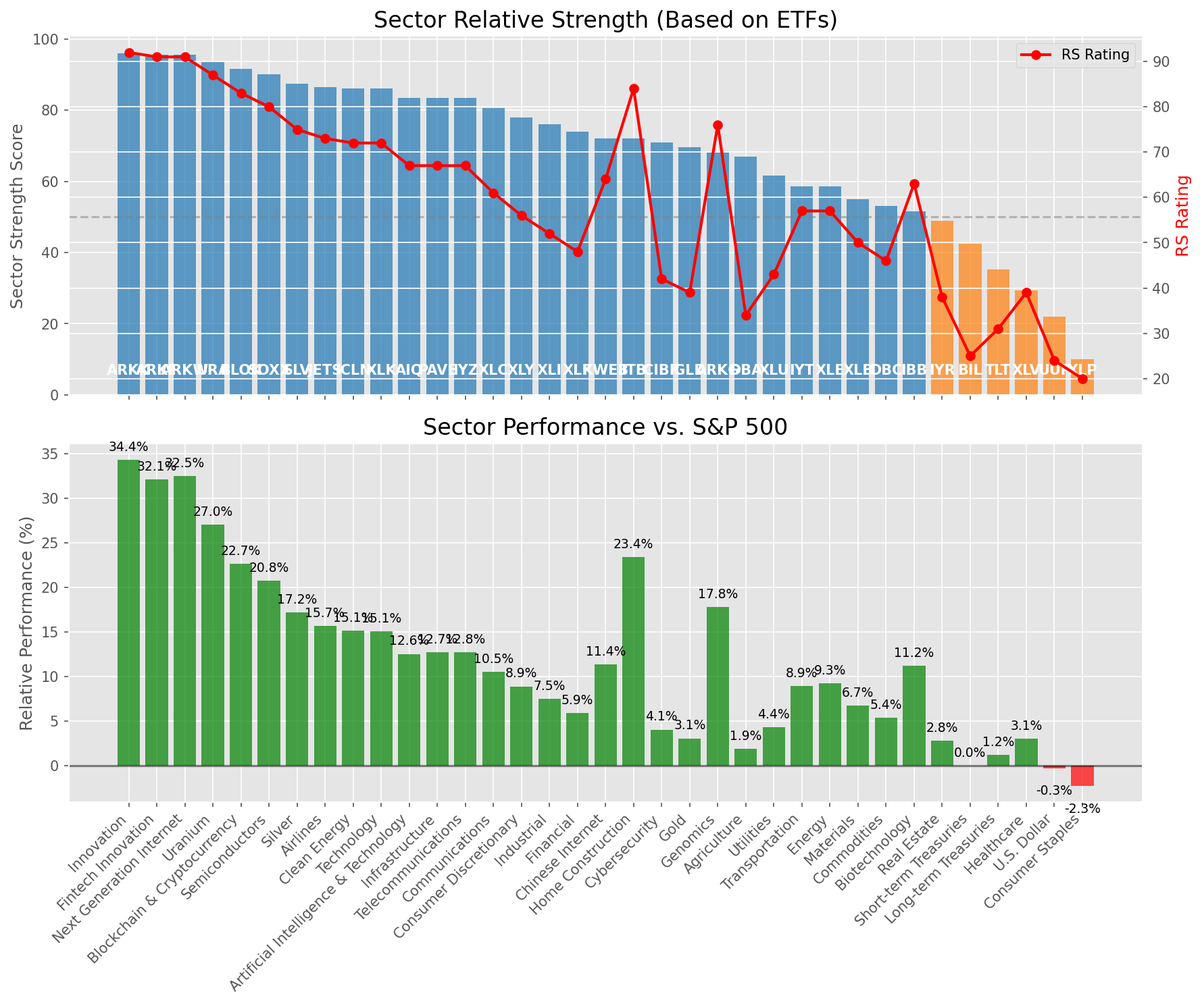
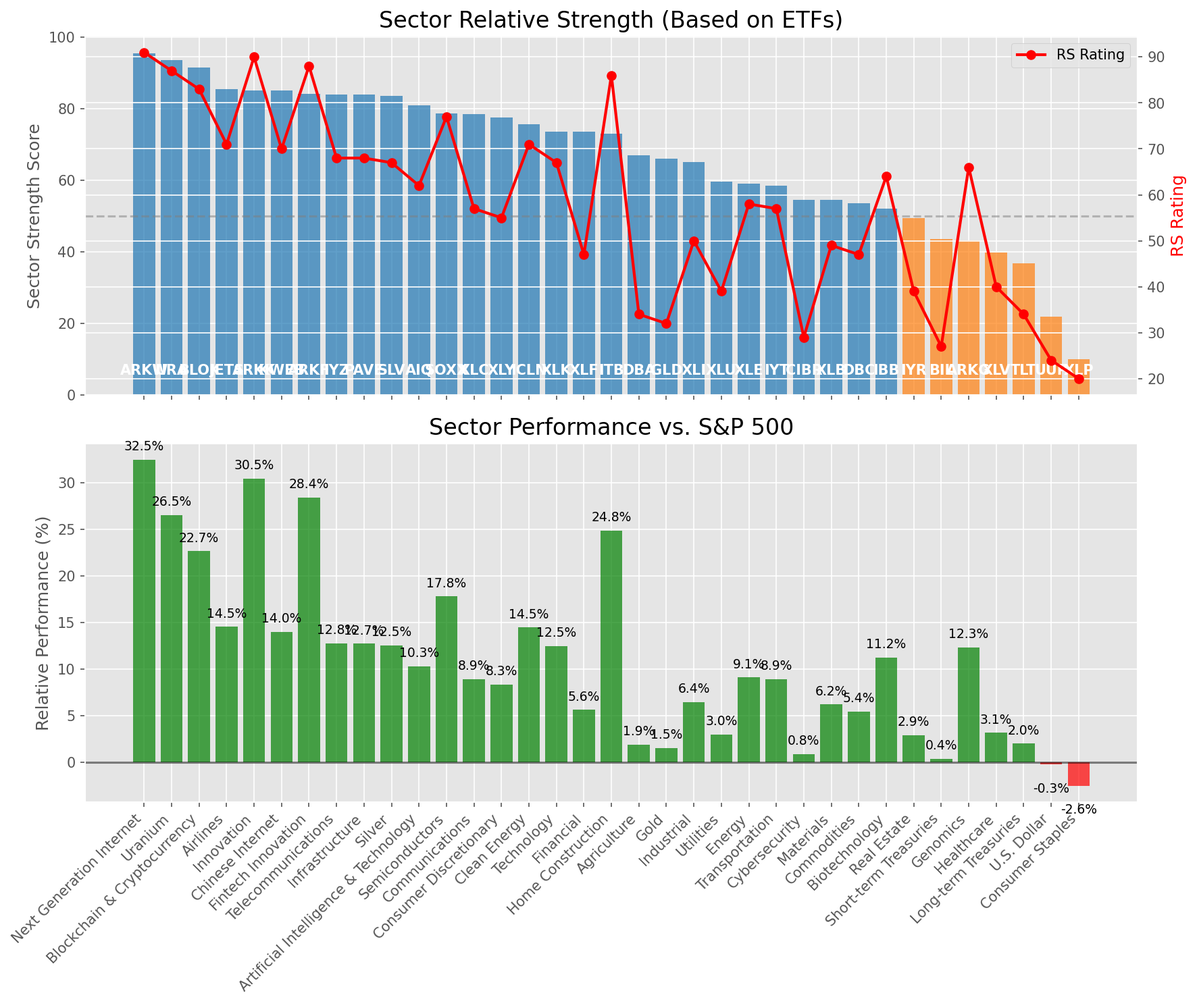
Add market report for 2025-08-29

diff --git a/oneil_relative_strength_report_2025-08-29.md b/oneil_relative_strength_report_2025-08-29.md
@@ -9,11 +9,11 @@
 | Metric | Value |
 |--------|-------|
 | **Market Valuation** | **Overvalued** |
-| **Current Ratio** | 10.55 |
-| **Historical Mean** | 9.94 |
+| **Current Ratio** | 10.47 |
+| **Historical Mean** | 9.96 |
 | **Standard Deviation** | 0.38 |
-| **Z-Score (StdDev from Mean)** | 1.49 |
-| **Total Market Cap** | $320.10 trillion |
+| **Z-Score (StdDev from Mean)** | 1.56 |
+| **Total Market Cap** | $317.80 trillion |
 | **GDP** | $30.35 trillion |
 
 ## **Market Insights**
@@ -49,41 +49,41 @@ Based on William O'Neil's Relative Strength Methodology
 
 | ETF | Strength | RS Rating | Performance | Above Key MAs | Trend | Sector |
 |-----|----------|-----------|-------------|--------------|-------|--------|
-| [ARKK](https://www.tradingview.com/chart/?symbol=ARKK) | 96.0 | 92.0 | 34.35% | 10d ✓, 50d ✓, 200d ✓ | ↗ | Innovation |
-| [ARKF](https://www.tradingview.com/chart/?symbol=ARKF) | 95.5 | 91.0 | 32.13% | 10d ✓, 50d ✓, 200d ✓ | ↗ | Fintech Innovation |
 | [ARKW](https://www.tradingview.com/chart/?symbol=ARKW) | 95.5 | 91.0 | 32.49% | 10d ✓, 50d ✓, 200d ✓ | ↗ | Next Generation Internet |
-| [URA](https://www.tradingview.com/chart/?symbol=URA) | 93.5 | 87.0 | 27.03% | 10d ✓, 50d ✓, 200d ✓ | ↗ | Uranium |
+| [URA](https://www.tradingview.com/chart/?symbol=URA) | 93.5 | 87.0 | 26.55% | 10d ✓, 50d ✓, 200d ✓ | ↗ | Uranium |
 | [BLOK](https://www.tradingview.com/chart/?symbol=BLOK) | 91.5 | 83.0 | 22.67% | 10d ✓, 50d ✓, 200d ✓ | ↗ | Blockchain & Cryptocurrency |
-| [SOXX](https://www.tradingview.com/chart/?symbol=SOXX) | 90.0 | 80.0 | 20.79% | 10d ✓, 50d ✓, 200d ✓ | ↗ | Semiconductors |
-| [SLV](https://www.tradingview.com/chart/?symbol=SLV) | 87.5 | 75.0 | 17.23% | 10d ✓, 50d ✓, 200d ✓ | ↗ | Silver |
-| [JETS](https://www.tradingview.com/chart/?symbol=JETS) | 86.5 | 73.0 | 15.70% | 10d ✓, 50d ✓, 200d ✓ | ↗ | Airlines |
-| [ICLN](https://www.tradingview.com/chart/?symbol=ICLN) | 86.0 | 72.0 | 15.15% | 10d ✓, 50d ✓, 200d ✓ | ↗ | Clean Energy |
-| [XLK](https://www.tradingview.com/chart/?symbol=XLK) | 86.0 | 72.0 | 15.07% | 10d ✓, 50d ✓, 200d ✓ | ↗ | Technology |
-| [AIQ](https://www.tradingview.com/chart/?symbol=AIQ) | 83.5 | 67.0 | 12.56% | 10d ✓, 50d ✓, 200d ✓ | ↗ | Artificial Intelligence & Technology |
-| [PAVE](https://www.tradingview.com/chart/?symbol=PAVE) | 83.5 | 67.0 | 12.73% | 10d ✓, 50d ✓, 200d ✓ | ↗ | Infrastructure |
-| [IYZ](https://www.tradingview.com/chart/?symbol=IYZ) | 83.5 | 67.0 | 12.76% | 10d ✓, 50d ✓, 200d ✓ | ↗ | Telecommunications |
-| [XLC](https://www.tradingview.com/chart/?symbol=XLC) | 80.5 | 61.0 | 10.53% | 10d ✓, 50d ✓, 200d ✓ | ↗ | Communications |
-| [XLY](https://www.tradingview.com/chart/?symbol=XLY) | 78.0 | 56.0 | 8.92% | 10d ✓, 50d ✓, 200d ✓ | ↗ | Consumer Discretionary |
-| [XLI](https://www.tradingview.com/chart/?symbol=XLI) | 76.0 | 52.0 | 7.49% | 10d ✓, 50d ✓, 200d ✓ | ↗ | Industrial |
-| [XLF](https://www.tradingview.com/chart/?symbol=XLF) | 74.0 | 48.0 | 5.90% | 10d ✓, 50d ✓, 200d ✓ | ↗ | Financial |
-| [KWEB](https://www.tradingview.com/chart/?symbol=KWEB) | 72.1 | 64.0 | 11.36% | 10d ✗, 50d ✓, 200d ✓ | ↗ | Chinese Internet |
-| [ITB](https://www.tradingview.com/chart/?symbol=ITB) | 72.0 | 84.0 | 23.40% | 10d ✓, 50d ✓, 200d ✓ | ↘ | Home Construction |
-| [CIBR](https://www.tradingview.com/chart/?symbol=CIBR) | 71.0 | 42.0 | 4.07% | 10d ✓, 50d ✓, 200d ✓ | ↗ | Cybersecurity |
-| [GLD](https://www.tradingview.com/chart/?symbol=GLD) | 69.5 | 39.0 | 3.08% | 10d ✓, 50d ✓, 200d ✓ | ↗ | Gold |
-| [ARKG](https://www.tradingview.com/chart/?symbol=ARKG) | 68.0 | 76.0 | 17.79% | 10d ✓, 50d ✓, 200d ✓ | ↘ | Genomics |
+| [JETS](https://www.tradingview.com/chart/?symbol=JETS) | 85.5 | 71.0 | 14.53% | 10d ✓, 50d ✓, 200d ✓ | ↗ | Airlines |
+| [ARKK](https://www.tradingview.com/chart/?symbol=ARKK) | 85.1 | 90.0 | 30.46% | 10d ✗, 50d ✓, 200d ✓ | ↗ | Innovation |
+| [KWEB](https://www.tradingview.com/chart/?symbol=KWEB) | 85.0 | 70.0 | 14.01% | 10d ✓, 50d ✓, 200d ✓ | ↗ | Chinese Internet |
+| [ARKF](https://www.tradingview.com/chart/?symbol=ARKF) | 84.1 | 88.0 | 28.42% | 10d ✗, 50d ✓, 200d ✓ | ↗ | Fintech Innovation |
+| [IYZ](https://www.tradingview.com/chart/?symbol=IYZ) | 84.0 | 68.0 | 12.76% | 10d ✓, 50d ✓, 200d ✓ | ↗ | Telecommunications |
+| [PAVE](https://www.tradingview.com/chart/?symbol=PAVE) | 84.0 | 68.0 | 12.73% | 10d ✓, 50d ✓, 200d ✓ | ↗ | Infrastructure |
+| [SLV](https://www.tradingview.com/chart/?symbol=SLV) | 83.5 | 67.0 | 12.54% | 10d ✓, 50d ✓, 200d ✓ | ↗ | Silver |
+| [AIQ](https://www.tradingview.com/chart/?symbol=AIQ) | 81.0 | 62.0 | 10.29% | 10d ✓, 50d ✓, 200d ✓ | ↗ | Artificial Intelligence & Technology |
+| [SOXX](https://www.tradingview.com/chart/?symbol=SOXX) | 78.6 | 77.0 | 17.79% | 10d ✗, 50d ✓, 200d ✓ | ↗ | Semiconductors |
+| [XLC](https://www.tradingview.com/chart/?symbol=XLC) | 78.5 | 57.0 | 8.90% | 10d ✓, 50d ✓, 200d ✓ | ↗ | Communications |
+| [XLY](https://www.tradingview.com/chart/?symbol=XLY) | 77.5 | 55.0 | 8.32% | 10d ✓, 50d ✓, 200d ✓ | ↗ | Consumer Discretionary |
+| [ICLN](https://www.tradingview.com/chart/?symbol=ICLN) | 75.6 | 71.0 | 14.46% | 10d ✗, 50d ✓, 200d ✓ | ↗ | Clean Energy |
+| [XLK](https://www.tradingview.com/chart/?symbol=XLK) | 73.6 | 67.0 | 12.46% | 10d ✗, 50d ✓, 200d ✓ | ↗ | Technology |
+| [XLF](https://www.tradingview.com/chart/?symbol=XLF) | 73.5 | 47.0 | 5.62% | 10d ✓, 50d ✓, 200d ✓ | ↗ | Financial |
+| [ITB](https://www.tradingview.com/chart/?symbol=ITB) | 73.0 | 86.0 | 24.85% | 10d ✓, 50d ✓, 200d ✓ | ↘ | Home Construction |
 | [DBA](https://www.tradingview.com/chart/?symbol=DBA) | 67.0 | 34.0 | 1.89% | 10d ✓, 50d ✓, 200d ✓ | ↗ | Agriculture |
-| [XLU](https://www.tradingview.com/chart/?symbol=XLU) | 61.6 | 43.0 | 4.37% | 10d ✗, 50d ✓, 200d ✓ | ↗ | Utilities |
+| [GLD](https://www.tradingview.com/chart/?symbol=GLD) | 66.0 | 32.0 | 1.52% | 10d ✓, 50d ✓, 200d ✓ | ↗ | Gold |
+| [XLI](https://www.tradingview.com/chart/?symbol=XLI) | 65.1 | 50.0 | 6.44% | 10d ✗, 50d ✓, 200d ✓ | ↗ | Industrial |
+| [XLU](https://www.tradingview.com/chart/?symbol=XLU) | 59.6 | 39.0 | 2.97% | 10d ✗, 50d ✓, 200d ✓ | ↗ | Utilities |
+| [XLE](https://www.tradingview.com/chart/?symbol=XLE) | 59.0 | 58.0 | 9.09% | 10d ✓, 50d ✓, 200d ✓ | ↘ | Energy |
 | [IYT](https://www.tradingview.com/chart/?symbol=IYT) | 58.5 | 57.0 | 8.93% | 10d ✓, 50d ✓, 200d ✓ | ↘ | Transportation |
-| [XLE](https://www.tradingview.com/chart/?symbol=XLE) | 58.5 | 57.0 | 9.29% | 10d ✓, 50d ✓, 200d ✓ | ↘ | Energy |
-| [XLB](https://www.tradingview.com/chart/?symbol=XLB) | 55.0 | 50.0 | 6.74% | 10d ✓, 50d ✓, 200d ✓ | ↘ | Materials |
-| [DBC](https://www.tradingview.com/chart/?symbol=DBC) | 53.0 | 46.0 | 5.42% | 10d ✓, 50d ✓, 200d ✓ | ↘ | Commodities |
-| [IBB](https://www.tradingview.com/chart/?symbol=IBB) | 51.6 | 63.0 | 11.24% | 10d ✗, 50d ✓, 200d ✓ | ↘ | Biotechnology |
-| [IYR](https://www.tradingview.com/chart/?symbol=IYR) | 49.0 | 38.0 | 2.82% | 10d ✓, 50d ✓, 200d ✓ | ↘ | Real Estate |
-| [BIL](https://www.tradingview.com/chart/?symbol=BIL) | 42.5 | 25.0 | 0.02% | 10d ✓, 50d ✓, 200d ✓ | ↘ | Short-term Treasuries |
-| [TLT](https://www.tradingview.com/chart/?symbol=TLT) | 35.3 | 31.0 | 1.24% | 10d ✓, 50d ✓, 200d ✗ | ↘ | Long-term Treasuries |
-| [XLV](https://www.tradingview.com/chart/?symbol=XLV) | 29.4 | 39.0 | 3.07% | 10d ✗, 50d ✓, 200d ✗ | ↘ | Healthcare |
+| [CIBR](https://www.tradingview.com/chart/?symbol=CIBR) | 54.6 | 29.0 | 0.84% | 10d ✓, 50d ✗, 200d ✓ | ↗ | Cybersecurity |
+| [XLB](https://www.tradingview.com/chart/?symbol=XLB) | 54.5 | 49.0 | 6.20% | 10d ✓, 50d ✓, 200d ✓ | ↘ | Materials |
+| [DBC](https://www.tradingview.com/chart/?symbol=DBC) | 53.5 | 47.0 | 5.42% | 10d ✓, 50d ✓, 200d ✓ | ↘ | Commodities |
+| [IBB](https://www.tradingview.com/chart/?symbol=IBB) | 52.1 | 64.0 | 11.24% | 10d ✗, 50d ✓, 200d ✓ | ↘ | Biotechnology |
+| [IYR](https://www.tradingview.com/chart/?symbol=IYR) | 49.5 | 39.0 | 2.88% | 10d ✓, 50d ✓, 200d ✓ | ↘ | Real Estate |
+| [BIL](https://www.tradingview.com/chart/?symbol=BIL) | 43.5 | 27.0 | 0.36% | 10d ✓, 50d ✓, 200d ✓ | ↘ | Short-term Treasuries |
+| [ARKG](https://www.tradingview.com/chart/?symbol=ARKG) | 43.2 | 66.0 | 12.34% | 10d ✗, 50d ✗, 200d ✓ | ↘ | Genomics |
+| [XLV](https://www.tradingview.com/chart/?symbol=XLV) | 39.8 | 40.0 | 3.15% | 10d ✓, 50d ✓, 200d ✗ | ↘ | Healthcare |
+| [TLT](https://www.tradingview.com/chart/?symbol=TLT) | 36.8 | 34.0 | 1.98% | 10d ✓, 50d ✓, 200d ✗ | ↘ | Long-term Treasuries |
 | [UUP](https://www.tradingview.com/chart/?symbol=UUP) | 21.9 | 24.0 | -0.25% | 10d ✗, 50d ✓, 200d ✗ | ↘ | U.S. Dollar |
-| [XLP](https://www.tradingview.com/chart/?symbol=XLP) | 10.0 | 20.0 | -2.25% | 10d ✗, 50d ✗, 200d ✗ | ↘ | Consumer Staples |
+| [XLP](https://www.tradingview.com/chart/?symbol=XLP) | 10.0 | 20.0 | -2.56% | 10d ✗, 50d ✗, 200d ✗ | ↘ | Consumer Staples |
 
 ### **Sector ETF Performance Interpretation**
 
@@ -98,181 +98,193 @@ This table shows the relative strength metrics for different market sectors base
 
 ### **Current Sector Leadership**
 
-The current market leadership is coming from the following sectors: **Innovation, Fintech Innovation, Next Generation Internet**.
+The current market leadership is coming from the following sectors: **Next Generation Internet, Uranium, Blockchain & Cryptocurrency**.
 
-The **Innovation** sector (represented by **ARKK**) is showing particularly strong relative strength with an RS rating of 92.0 and performance of 34.35% vs. the S&P 500. This sector is trading above its 10-day, 50-day, 200-day moving average(s). Investors should consider focusing on high RS stocks within these leading sectors for potential outperformance.
+The **Next Generation Internet** sector (represented by **ARKW**) is showing particularly strong relative strength with an RS rating of 91.0 and performance of 32.49% vs. the S&P 500. This sector is trading above its 10-day, 50-day, 200-day moving average(s). Investors should consider focusing on high RS stocks within these leading sectors for potential outperformance.
 
 ---
 
 ## **Buy Recommendations**
 
-The following 65 stocks show exceptional relative strength:
+The following 54 stocks show exceptional relative strength:
 
 | RS Rating | Buy Score | Current Price | Chart | Name | Ticker |
 |-----------|-----------|---------------|-------|------|--------|
-| 100 | 100 | $68.51 | [Chart](https://www.tradingview.com/chart/?symbol=KTOS) | Kratos Defense & Security Solutions, Inc. | KTOS |
-| 100 | 100 | $131.82 | [Chart](https://www.tradingview.com/chart/?symbol=CRDO) | Credo Technology Group Holding Ltd Ordinary Shares | CRDO |
-| 100 | 100 | $73.50 | [Chart](https://www.tradingview.com/chart/?symbol=MP) | MP Materials Corp. | MP |
-| 100 | 100 | $212.33 | [Chart](https://www.tradingview.com/chart/?symbol=CLS) | Celestica, Inc. | CLS |
-| 100 | 100 | $27.46 | [Chart](https://www.tradingview.com/chart/?symbol=LQDA) | Liquidia Corporation Common Stock | LQDA |
-| 99 | 100 | $209.38 | [Chart](https://www.tradingview.com/chart/?symbol=LEU) | Centrus Energy Corp. | LEU |
-| 99 | 100 | $186.11 | [Chart](https://www.tradingview.com/chart/?symbol=FUTU) | Futu Holdings Limited American Depositary Shares | FUTU |
-| 99 | 100 | $47.91 | [Chart](https://www.tradingview.com/chart/?symbol=RKLB) | Rocket Lab Corporation Common Stock | RKLB |
+| 100 | 100 | $185.88 | [Chart](https://www.tradingview.com/chart/?symbol=FUTU) | Futu Holdings Limited American Depositary Shares | FUTU |
+| 100 | 100 | $71.72 | [Chart](https://www.tradingview.com/chart/?symbol=MP) | MP Materials Corp. | MP |
+| 100 | 100 | $124.60 | [Chart](https://www.tradingview.com/chart/?symbol=CRDO) | Credo Technology Group Holding Ltd Ordinary Shares | CRDO |
+| 99 | 100 | $201.88 | [Chart](https://www.tradingview.com/chart/?symbol=CLS) | Celestica, Inc. | CLS |
+| 99 | 100 | $36.13 | [Chart](https://www.tradingview.com/chart/?symbol=CPS) | Cooper-Standard Automotive Inc. | CPS |
+| 99 | 100 | $46.06 | [Chart](https://www.tradingview.com/chart/?symbol=RKLB) | Rocket Lab Corporation Common Stock | RKLB |
 | 98 | 100 | $67.01 | [Chart](https://www.tradingview.com/chart/?symbol=BBW) | Build-A-Bear Workshop, Inc. | BBW |
 | 98 | 100 | $59.93 | [Chart](https://www.tradingview.com/chart/?symbol=TPC) | Tutor Perini Corporation | TPC |
-| 98 | 100 | $46.90 | [Chart](https://www.tradingview.com/chart/?symbol=TTMI) | TTM Technologies Inc | TTMI |
-| 98 | 100 | $388.22 | [Chart](https://www.tradingview.com/chart/?symbol=TLN) | Talen Energy Corporation Common Stock | TLN |
-| 98 | 100 | $36.13 | [Chart](https://www.tradingview.com/chart/?symbol=CPS) | Cooper-Standard Automotive Inc. | CPS |
-| 97 | 100 | $126.88 | [Chart](https://www.tradingview.com/chart/?symbol=RBLX) | Roblox Corporation | RBLX |
+| 97 | 100 | $45.40 | [Chart](https://www.tradingview.com/chart/?symbol=TTMI) | TTM Technologies Inc | TTMI |
+| 97 | 100 | $377.66 | [Chart](https://www.tradingview.com/chart/?symbol=TLN) | Talen Energy Corporation Common Stock | TLN |
 | 96 | 100 | $91.31 | [Chart](https://www.tradingview.com/chart/?symbol=LIF) | Life360, Inc. Common Stock | LIF |
 | 96 | 100 | $53.78 | [Chart](https://www.tradingview.com/chart/?symbol=REVG) | REV Group, Inc. | REVG |
-| 95 | 100 | $68.50 | [Chart](https://www.tradingview.com/chart/?symbol=MRCY) | Mercury Systems Inc. | MRCY |
-| 95 | 100 | $63.77 | [Chart](https://www.tradingview.com/chart/?symbol=VIK) | Viking Holdings Ltd | VIK |
 | 95 | 100 | $119.37 | [Chart](https://www.tradingview.com/chart/?symbol=SANM) | Sanmina  Corp | SANM |
-| 95 | 100 | $365.84 | [Chart](https://www.tradingview.com/chart/?symbol=RCL) | Royal Caribbean Group | RCL |
-| 93 | 100 | $105.88 | [Chart](https://www.tradingview.com/chart/?symbol=VRNA) | Verona Pharma plc | VRNA |
-| 93 | 100 | $99.91 | [Chart](https://www.tradingview.com/chart/?symbol=TPB) | Turning Point Brands, Inc. | TPB |
+| 95 | 100 | $68.50 | [Chart](https://www.tradingview.com/chart/?symbol=MRCY) | Mercury Systems Inc. | MRCY |
+| 94 | 100 | $62.92 | [Chart](https://www.tradingview.com/chart/?symbol=VIK) | Viking Holdings Ltd | VIK |
+| 94 | 100 | $99.91 | [Chart](https://www.tradingview.com/chart/?symbol=TPB) | Turning Point Brands, Inc. | TPB |
+| 93 | 100 | $122.68 | [Chart](https://www.tradingview.com/chart/?symbol=RBLX) | Roblox Corporation | RBLX |
+| 93 | 100 | $358.21 | [Chart](https://www.tradingview.com/chart/?symbol=RCL) | Royal Caribbean Group | RCL |
 | 92 | 100 | $97.40 | [Chart](https://www.tradingview.com/chart/?symbol=LLYVK) | Liberty Media Corporation Series C Liberty Live Common Stock | LLYVK |
-| 92 | 100 | $633.69 | [Chart](https://www.tradingview.com/chart/?symbol=GEV) | GE Vernova Inc. | GEV |
 | 92 | 100 | $50.48 | [Chart](https://www.tradingview.com/chart/?symbol=LTM) | LATAM Airlines Group S.A. American Depositary Shares (each representing two thousand (2,000) shares of Common Stock) | LTM |
-| 91 | 100 | $54.08 | [Chart](https://www.tradingview.com/chart/?symbol=ARKF) | ARK Fintech Innovation ETF | ARKF |
+| 91 | 100 | $23.39 | [Chart](https://www.tradingview.com/chart/?symbol=BZ) | KANZHUN LIMITED American Depository Shares | BZ |
+| 91 | 100 | $75.49 | [Chart](https://www.tradingview.com/chart/?symbol=WNS) | WNS (Holdings) Limited | WNS |
 | 91 | 100 | $159.42 | [Chart](https://www.tradingview.com/chart/?symbol=ARKW) | ARK Next Generation Internet ETF | ARKW |
-| 90 | 100 | $102.61 | [Chart](https://www.tradingview.com/chart/?symbol=TPR) | Tapestry, Inc. Common Stock | TPR |
-| 90 | 100 | $56.35 | [Chart](https://www.tradingview.com/chart/?symbol=SIL) | Global X Silver Miners ETF (NEW) | SIL |
-| 90 | 100 | $31.33 | [Chart](https://www.tradingview.com/chart/?symbol=SRAD) | Sportradar Group AG Class A Ordinary Shares | SRAD |
-| 90 | 100 | $75.49 | [Chart](https://www.tradingview.com/chart/?symbol=WNS) | WNS (Holdings) Limited | WNS |
-| 90 | 100 | $54.76 | [Chart](https://www.tradingview.com/chart/?symbol=FLEX) | Flex Ltd. Ordinary Shares | FLEX |
+| 90 | 100 | $102.54 | [Chart](https://www.tradingview.com/chart/?symbol=TPR) | Tapestry, Inc. Common Stock | TPR |
+| 90 | 100 | $17.85 | [Chart](https://www.tradingview.com/chart/?symbol=ARLO) | Arlo Technologies, Inc. | ARLO |
 | 90 | 100 | $61.06 | [Chart](https://www.tradingview.com/chart/?symbol=CALX) | CALIX, INC. | CALX |
-| 89 | 100 | $213.42 | [Chart](https://www.tradingview.com/chart/?symbol=NET) | Cloudflare, Inc. Class A common stock, par value $0.001 per share | NET |
+| 89 | 100 | $23.97 | [Chart](https://www.tradingview.com/chart/?symbol=MAG) | MAG Silver Corp. | MAG |
 | 88 | 100 | $273.51 | [Chart](https://www.tradingview.com/chart/?symbol=IDCC) | InterDigital, Inc. | IDCC |
-| 90 | 99 | $23.10 | [Chart](https://www.tradingview.com/chart/?symbol=BZ) | KANZHUN LIMITED American Depository Shares | BZ |
-| 89 | 99 | $17.85 | [Chart](https://www.tradingview.com/chart/?symbol=ARLO) | Arlo Technologies, Inc. | ARLO |
+| 86 | 100 | $105.74 | [Chart](https://www.tradingview.com/chart/?symbol=VRNA) | Verona Pharma plc | VRNA |
 | 89 | 99 | $115.00 | [Chart](https://www.tradingview.com/chart/?symbol=AZZ) | AZZ Inc. | AZZ |
-| 88 | 99 | $23.97 | [Chart](https://www.tradingview.com/chart/?symbol=MAG) | MAG Silver Corp. | MAG |
-| 88 | 99 | $96.82 | [Chart](https://www.tradingview.com/chart/?symbol=C) | Citigroup Inc. | C |
-| 88 | 98 | $29.29 | [Chart](https://www.tradingview.com/chart/?symbol=ACMR) | ACM Research, Inc. Class A Common Stock | ACMR |
+| 88 | 99 | $39.52 | [Chart](https://www.tradingview.com/chart/?symbol=ATAT) | Atour Lifestyle Holdings Limited American Depositary Shares | ATAT |
+| 86 | 99 | $52.25 | [Chart](https://www.tradingview.com/chart/?symbol=RING) | iShares MSCI Global Gold Miners ETF | RING |
 | 87 | 98 | $28.91 | [Chart](https://www.tradingview.com/chart/?symbol=KAR) | OPENLANE, Inc | KAR |
-| 86 | 98 | $55.20 | [Chart](https://www.tradingview.com/chart/?symbol=AU) | AngloGold Ashanti plc | AU |
-| 85 | 98 | $52.25 | [Chart](https://www.tradingview.com/chart/?symbol=RING) | iShares MSCI Global Gold Miners ETF | RING |
+| 87 | 98 | $96.15 | [Chart](https://www.tradingview.com/chart/?symbol=C) | Citigroup Inc. | C |
 | 87 | 97 | $197.57 | [Chart](https://www.tradingview.com/chart/?symbol=AWI) | Armstrong World Industries, Inc. | AWI |
-| 86 | 97 | $111.94 | [Chart](https://www.tradingview.com/chart/?symbol=APH) | Amphenol Corporation | APH |
+| 87 | 97 | $53.61 | [Chart](https://www.tradingview.com/chart/?symbol=FHI) | Federated Hermes, Inc. | FHI |
+| 84 | 97 | $27.55 | [Chart](https://www.tradingview.com/chart/?symbol=LAUR) | Laureate Education, Inc. Common Stock | LAUR |
 | 86 | 96 | $124.05 | [Chart](https://www.tradingview.com/chart/?symbol=PPLT) | abrdn Physical Platinum Shares ETF | PPLT |
-| 86 | 96 | $483.75 | [Chart](https://www.tradingview.com/chart/?symbol=APP) | Applovin Corporation Class A Common Stock | APP |
-| 86 | 96 | $53.61 | [Chart](https://www.tradingview.com/chart/?symbol=FHI) | Federated Hermes, Inc. | FHI |
-| 83 | 96 | $27.55 | [Chart](https://www.tradingview.com/chart/?symbol=LAUR) | Laureate Education, Inc. Common Stock | LAUR |
-| 84 | 95 | $31.38 | [Chart](https://www.tradingview.com/chart/?symbol=IIIV) | i3 Verticals, Inc. Class A Common Stock | IIIV |
-| 82 | 95 | $42.72 | [Chart](https://www.tradingview.com/chart/?symbol=AHR) | American Healthcare REIT, Inc. | AHR |
+| 85 | 96 | $31.38 | [Chart](https://www.tradingview.com/chart/?symbol=IIIV) | i3 Verticals, Inc. Class A Common Stock | IIIV |
+| 83 | 96 | $42.72 | [Chart](https://www.tradingview.com/chart/?symbol=AHR) | American Healthcare REIT, Inc. | AHR |
+| 82 | 95 | $206.81 | [Chart](https://www.tradingview.com/chart/?symbol=NET) | Cloudflare, Inc. Class A common stock, par value $0.001 per share | NET |
+| 84 | 94 | $56.72 | [Chart](https://www.tradingview.com/chart/?symbol=SIL) | Global X Silver Miners ETF (NEW) | SIL |
+| 84 | 94 | $16.52 | [Chart](https://www.tradingview.com/chart/?symbol=EZPW) | Ezcorp Inc | EZPW |
+| 84 | 94 | $28.13 | [Chart](https://www.tradingview.com/chart/?symbol=ACMR) | ACM Research, Inc. Class A Common Stock | ACMR |
 | 83 | 94 | $26.73 | [Chart](https://www.tradingview.com/chart/?symbol=TFPM) | Triple Flag Precious Metals Corp. | TFPM |
-| 83 | 93 | $16.52 | [Chart](https://www.tradingview.com/chart/?symbol=EZPW) | Ezcorp Inc | EZPW |
+| 81 | 94 | $37.83 | [Chart](https://www.tradingview.com/chart/?symbol=ATRO) | Astronics Corp | ATRO |
+| 80 | 94 | $101.05 | [Chart](https://www.tradingview.com/chart/?symbol=SNEX) | StoneX Group Inc. Common Stock | SNEX |
 | 82 | 93 | $256.09 | [Chart](https://www.tradingview.com/chart/?symbol=BAP) | Credicorp LTD | BAP |
-| 82 | 93 | $39.00 | [Chart](https://www.tradingview.com/chart/?symbol=ATAT) | Atour Lifestyle Holdings Limited American Depositary Shares | ATAT |
 | 80 | 93 | $171.47 | [Chart](https://www.tradingview.com/chart/?symbol=IRTC) | iRhythm Technologies, Inc | IRTC |
-| 80 | 93 | $37.83 | [Chart](https://www.tradingview.com/chart/?symbol=ATRO) | Astronics Corp | ATRO |
-| 80 | 93 | $247.33 | [Chart](https://www.tradingview.com/chart/?symbol=DASH) | DoorDash, Inc. Class A Common Stock | DASH |
+| 82 | 92 | $84.33 | [Chart](https://www.tradingview.com/chart/?symbol=SAH) | Sonic Automotive, Inc. | SAH |
 | 81 | 92 | $114.80 | [Chart](https://www.tradingview.com/chart/?symbol=SXT) | Sensient Technology Corporation | SXT |
-| 81 | 91 | $222.34 | [Chart](https://www.tradingview.com/chart/?symbol=AN) | AutoNation, Inc. | AN |
-| 81 | 91 | $84.33 | [Chart](https://www.tradingview.com/chart/?symbol=SAH) | Sonic Automotive, Inc. | SAH |
-| 81 | 91 | $50.18 | [Chart](https://www.tradingview.com/chart/?symbol=FAST) | Fastenal Co | FAST |
 | 81 | 91 | $191.53 | [Chart](https://www.tradingview.com/chart/?symbol=MYRG) | MYR Group, Inc. | MYRG |
 | 81 | 91 | $20.35 | [Chart](https://www.tradingview.com/chart/?symbol=DAN) | Dana Incorporated | DAN |
+| 81 | 91 | $222.34 | [Chart](https://www.tradingview.com/chart/?symbol=AN) | AutoNation, Inc. | AN |
 
 ---
 
 
 ## **Sell Recommendations**
 
-The following 88 stocks show deteriorating relative strength:
+The following 111 stocks show deteriorating relative strength:
 
 | RS Rating | Sell Score | Current Price | Chart | Name | Ticker |
 |-----------|------------|---------------|-------|------|--------|
-| 1 | 100 | $23.12 | [Chart](https://www.tradingview.com/chart/?symbol=TECS) | Direxion Daily Technology Bear 3x Shares | TECS |
-| 1 | 100 | $17.47 | [Chart](https://www.tradingview.com/chart/?symbol=DUST) | Direxion Daily Gold Miners Index Bear 2X Shares | DUST |
+| 1 | 100 | $12.20 | [Chart](https://www.tradingview.com/chart/?symbol=UVXY) | ProShares Ultra VIX Short-Term Futures ETF | UVXY |
 | 2 | 100 | $36.61 | [Chart](https://www.tradingview.com/chart/?symbol=TWM) | ProShares UltraShort Russell2000 | TWM |
-| 2 | 100 | $21.71 | [Chart](https://www.tradingview.com/chart/?symbol=ZSL) | ProShares UltraShort Silver | ZSL |
 | 2 | 100 | $15.14 | [Chart](https://www.tradingview.com/chart/?symbol=KRNT) | Kornit Digital Ltd. | KRNT |
+| 2 | 100 | $36.59 | [Chart](https://www.tradingview.com/chart/?symbol=VXX) | iPath Series B S&P 500 VIX Short-Term Futures ETN | VXX |
+| 2 | 100 | $24.33 | [Chart](https://www.tradingview.com/chart/?symbol=TECS) | Direxion Daily Technology Bear 3x Shares | TECS |
+| 2 | 100 | $17.08 | [Chart](https://www.tradingview.com/chart/?symbol=DUST) | Direxion Daily Gold Miners Index Bear 2X Shares | DUST |
+| 2 | 100 | $21.71 | [Chart](https://www.tradingview.com/chart/?symbol=ZSL) | ProShares UltraShort Silver | ZSL |
 | 3 | 100 | $21.45 | [Chart](https://www.tradingview.com/chart/?symbol=CLW) | Clearwater Paper Corporation | CLW |
-| 4 | 100 | $37.71 | [Chart](https://www.tradingview.com/chart/?symbol=SDOW) | ProShares UltraPro Short Dow 30 | SDOW |
-| 4 | 100 | $46.95 | [Chart](https://www.tradingview.com/chart/?symbol=EXAS) | Exact Sciences Corp | EXAS |
-| 4 | 100 | $375.77 | [Chart](https://www.tradingview.com/chart/?symbol=FDS) | Factset Research Systems | FDS |
+| 3 | 100 | $44.92 | [Chart](https://www.tradingview.com/chart/?symbol=ONON) | On Holding AG | ONON |
+| 3 | 100 | $36.28 | [Chart](https://www.tradingview.com/chart/?symbol=IOT) | Samsara Inc. | IOT |
 | 4 | 100 | $11.61 | [Chart](https://www.tradingview.com/chart/?symbol=CHPT) | ChargePoint Holdings, Inc. | CHPT |
+| 4 | 100 | $375.77 | [Chart](https://www.tradingview.com/chart/?symbol=FDS) | Factset Research Systems | FDS |
+| 5 | 100 | $38.32 | [Chart](https://www.tradingview.com/chart/?symbol=SDOW) | ProShares UltraPro Short Dow 30 | SDOW |
+| 5 | 100 | $17.53 | [Chart](https://www.tradingview.com/chart/?symbol=DJT) | Trump Media & Technology Group Corp. Common Stock | DJT |
+| 5 | 100 | $258.34 | [Chart](https://www.tradingview.com/chart/?symbol=ACN) | Accenture PLC | ACN |
 | 5 | 100 | $20.43 | [Chart](https://www.tradingview.com/chart/?symbol=ERY) | Direxion Daily Energy Bear 2X Shares | ERY |
+| 5 | 100 | $46.45 | [Chart](https://www.tradingview.com/chart/?symbol=EXAS) | Exact Sciences Corp | EXAS |
 | 5 | 100 | $15.32 | [Chart](https://www.tradingview.com/chart/?symbol=MCS) | The Marcus Corporation | MCS |
 | 6 | 100 | $16.00 | [Chart](https://www.tradingview.com/chart/?symbol=BTAL) | AGF U.S. Market Neutral Anti-Beta Fund | BTAL |
 | 6 | 100 | $15.32 | [Chart](https://www.tradingview.com/chart/?symbol=PRO) | Pros Holdings, Inc. | PRO |
-| 7 | 100 | $353.96 | [Chart](https://www.tradingview.com/chart/?symbol=ADBE) | Adobe Inc. | ADBE |
-| 7 | 100 | $17.95 | [Chart](https://www.tradingview.com/chart/?symbol=DJT) | Trump Media & Technology Group Corp. Common Stock | DJT |
+| 9 | 100 | $355.50 | [Chart](https://www.tradingview.com/chart/?symbol=ADBE) | Adobe Inc. | ADBE |
 | 10 | 100 | $24.56 | [Chart](https://www.tradingview.com/chart/?symbol=WSC) | WillScot Holdings Corporation Class A Common Stock | WSC |
-| 11 | 100 | $38.21 | [Chart](https://www.tradingview.com/chart/?symbol=SH) | ProShares Short S&P500 | SH |
+| 13 | 100 | $38.55 | [Chart](https://www.tradingview.com/chart/?symbol=SH) | ProShares Short S&P500 | SH |
 | 13 | 100 | $15.21 | [Chart](https://www.tradingview.com/chart/?symbol=CHCT) | Community Healthcare Trust Incorporated Common Stock, $0.01 par value per share | CHCT |
-| 3 | 99 | $44.59 | [Chart](https://www.tradingview.com/chart/?symbol=ONON) | On Holding AG | ONON |
+| 9 | 99 | $70.00 | [Chart](https://www.tradingview.com/chart/?symbol=EMN) | Eastman Chemical Company | EMN |
 | 9 | 99 | $58.57 | [Chart](https://www.tradingview.com/chart/?symbol=ATKR) | Atkore Inc. | ATKR |
-| 18 | 99 | $47.15 | [Chart](https://www.tradingview.com/chart/?symbol=EDU) | New Oriental Education and Technology Group, Inc. American Depositary Shares (each representing ten (10) Common Shares) | EDU |
-| 12 | 98 | $19.21 | [Chart](https://www.tradingview.com/chart/?symbol=AVBP) | ArriVent BioPharma, Inc. Common Stock | AVBP |
+| 10 | 99 | $29.15 | [Chart](https://www.tradingview.com/chart/?symbol=CNX) | CNX Resources Corporation | CNX |
+| 11 | 99 | $19.21 | [Chart](https://www.tradingview.com/chart/?symbol=AVBP) | ArriVent BioPharma, Inc. Common Stock | AVBP |
+| 6 | 98 | $15.60 | [Chart](https://www.tradingview.com/chart/?symbol=SDS) | ProShares UltraShort S&P500 | SDS |
 | 9 | 97 | $25.25 | [Chart](https://www.tradingview.com/chart/?symbol=GDEN) | Golden Entertainment, Inc. Common Stock | GDEN |
+| 11 | 97 | $33.80 | [Chart](https://www.tradingview.com/chart/?symbol=TECK) | Teck Resources Limited | TECK |
 | 11 | 97 | $10.46 | [Chart](https://www.tradingview.com/chart/?symbol=OEC) | Orion S.A. | OEC |
-| 15 | 97 | $110.74 | [Chart](https://www.tradingview.com/chart/?symbol=CPT) | Camden Property Trust | CPT |
 | 10 | 96 | $107.38 | [Chart](https://www.tradingview.com/chart/?symbol=ITGR) | Integer Holdings Corporation | ITGR |
-| 14 | 96 | $91.97 | [Chart](https://www.tradingview.com/chart/?symbol=IRM) | Iron Mountain Inc. | IRM |
-| 14 | 96 | $23.01 | [Chart](https://www.tradingview.com/chart/?symbol=DIN) | Dine Brands Global, Inc. | DIN |
-| 15 | 96 | $10.03 | [Chart](https://www.tradingview.com/chart/?symbol=NMZ) | Nuveen Municipal High Income Opportunity Fund | NMZ |
-| 17 | 96 | $23.05 | [Chart](https://www.tradingview.com/chart/?symbol=JANX) | Janux Therapeutics, Inc. Common Stock | JANX |
+| 11 | 96 | $14.19 | [Chart](https://www.tradingview.com/chart/?symbol=XRAY) | DENTSPLY SIRONA Inc. | XRAY |
+| 12 | 96 | $32.97 | [Chart](https://www.tradingview.com/chart/?symbol=PSQ) | ProShares Short QQQ | PSQ |
+| 12 | 96 | $31.09 | [Chart](https://www.tradingview.com/chart/?symbol=INVH) | Invitation Homes Inc. Common Stock | INVH |
+| 14 | 96 | $24.96 | [Chart](https://www.tradingview.com/chart/?symbol=DOG) | ProShares Short Dow30 | DOG |
+| 16 | 96 | $39.33 | [Chart](https://www.tradingview.com/chart/?symbol=UDR) | UDR, Inc. | UDR |
+| 16 | 96 | $110.74 | [Chart](https://www.tradingview.com/chart/?symbol=CPT) | Camden Property Trust | CPT |
+| 6 | 95 | $32.53 | [Chart](https://www.tradingview.com/chart/?symbol=BOX) | BOX, INC. | BOX |
+| 13 | 95 | $10.01 | [Chart](https://www.tradingview.com/chart/?symbol=SPDN) | Direxion Daily S&P 500 Bear 1X Shares | SPDN |
 | 14 | 95 | $25.64 | [Chart](https://www.tradingview.com/chart/?symbol=FCPT) | Four Corners Property Trust, Inc. | FCPT |
-| 14 | 95 | $105.45 | [Chart](https://www.tradingview.com/chart/?symbol=MATX) | Matsons, Inc. | MATX |
+| 15 | 95 | $91.97 | [Chart](https://www.tradingview.com/chart/?symbol=IRM) | Iron Mountain Inc. | IRM |
+| 15 | 95 | $23.01 | [Chart](https://www.tradingview.com/chart/?symbol=DIN) | Dine Brands Global, Inc. | DIN |
 | 15 | 95 | $142.32 | [Chart](https://www.tradingview.com/chart/?symbol=EXR) | Extra Space Storage, Inc. | EXR |
+| 16 | 95 | $10.03 | [Chart](https://www.tradingview.com/chart/?symbol=NMZ) | Nuveen Municipal High Income Opportunity Fund | NMZ |
+| 18 | 95 | $23.05 | [Chart](https://www.tradingview.com/chart/?symbol=JANX) | Janux Therapeutics, Inc. Common Stock | JANX |
 | 7 | 94 | $116.53 | [Chart](https://www.tradingview.com/chart/?symbol=IPAR) | Interparfums, Inc. Common Stock | IPAR |
-| 8 | 94 | $11.26 | [Chart](https://www.tradingview.com/chart/?symbol=PATH) | UiPath, Inc. | PATH |
-| 13 | 94 | $24.83 | [Chart](https://www.tradingview.com/chart/?symbol=DOG) | ProShares Short Dow30 | DOG |
-| 11 | 93 | $32.51 | [Chart](https://www.tradingview.com/chart/?symbol=PSQ) | ProShares Short QQQ | PSQ |
-| 13 | 93 | $10.02 | [Chart](https://www.tradingview.com/chart/?symbol=SPDN) | Direxion Daily S&P 500 Bear 1X Shares | SPDN |
-| 15 | 93 | $39.00 | [Chart](https://www.tradingview.com/chart/?symbol=UDR) | UDR, Inc. | UDR |
+| 11 | 94 | $11.31 | [Chart](https://www.tradingview.com/chart/?symbol=PATH) | UiPath, Inc. | PATH |
+| 15 | 94 | $105.45 | [Chart](https://www.tradingview.com/chart/?symbol=MATX) | Matsons, Inc. | MATX |
+| 15 | 94 | $14.53 | [Chart](https://www.tradingview.com/chart/?symbol=IMVT) | Immunovant, Inc. Common Stock | IMVT |
+| 7 | 93 | $16.99 | [Chart](https://www.tradingview.com/chart/?symbol=SCO) | ProShares UltraShort Bloomberg Crude Oil | SCO |
+| 7 | 93 | $178.01 | [Chart](https://www.tradingview.com/chart/?symbol=TEAM) | Atlassian Corporation Class A Common Stock | TEAM |
+| 8 | 93 | $23.07 | [Chart](https://www.tradingview.com/chart/?symbol=DXD) | ProShares UltraShort Dow 30 | DXD |
 | 19 | 93 | $34.54 | [Chart](https://www.tradingview.com/chart/?symbol=RGR) | Sturm, Ruger & Company, Inc. | RGR |
-| 12 | 92 | $30.94 | [Chart](https://www.tradingview.com/chart/?symbol=INVH) | Invitation Homes Inc. Common Stock | INVH |
+| 8 | 92 | $20.61 | [Chart](https://www.tradingview.com/chart/?symbol=KVUE) | Kenvue Inc. | KVUE |
+| 8 | 92 | $63.01 | [Chart](https://www.tradingview.com/chart/?symbol=QSR) | Restaurant Brands International Inc. | QSR |
 | 13 | 92 | $243.85 | [Chart](https://www.tradingview.com/chart/?symbol=EFX) | Equifax, Incorporated | EFX |
-| 14 | 92 | $29.25 | [Chart](https://www.tradingview.com/chart/?symbol=CNX) | CNX Resources Corporation | CNX |
-| 17 | 92 | $26.81 | [Chart](https://www.tradingview.com/chart/?symbol=WKC) | World Kinect Corporation | WKC |
-| 17 | 90 | $31.09 | [Chart](https://www.tradingview.com/chart/?symbol=EPRT) | Essential Properties Realty Trust, Inc. | EPRT |
-| 14 | 89 | $119.09 | [Chart](https://www.tradingview.com/chart/?symbol=CHH) | Choice Hotels Intnl. | CHH |
-| 17 | 89 | $46.22 | [Chart](https://www.tradingview.com/chart/?symbol=TRUP) | Trupanion, Inc. | TRUP |
+| 12 | 91 | $129.63 | [Chart](https://www.tradingview.com/chart/?symbol=KMB) | Kimberly-Clark Corp. | KMB |
+| 14 | 91 | $50.46 | [Chart](https://www.tradingview.com/chart/?symbol=DT) | Dynatrace, Inc. | DT |
+| 18 | 91 | $26.81 | [Chart](https://www.tradingview.com/chart/?symbol=WKC) | World Kinect Corporation | WKC |
+| 15 | 90 | $43.69 | [Chart](https://www.tradingview.com/chart/?symbol=EPI) | WisdomTree India Earnings Fund ETF | EPI |
+| 18 | 89 | $31.09 | [Chart](https://www.tradingview.com/chart/?symbol=EPRT) | Essential Properties Realty Trust, Inc. | EPRT |
 | 21 | 89 | $10.99 | [Chart](https://www.tradingview.com/chart/?symbol=MQY) | Blackrock Muni Yield Quality Fund, Inc | MQY |
-| 14 | 88 | $14.85 | [Chart](https://www.tradingview.com/chart/?symbol=OSPN) | OneSpan Inc. Common Stock | OSPN |
+| 15 | 88 | $119.09 | [Chart](https://www.tradingview.com/chart/?symbol=CHH) | Choice Hotels Intnl. | CHH |
+| 18 | 88 | $46.22 | [Chart](https://www.tradingview.com/chart/?symbol=TRUP) | Trupanion, Inc. | TRUP |
 | 20 | 88 | $29.35 | [Chart](https://www.tradingview.com/chart/?symbol=MGPI) | MGP Ingredients Inc | MGPI |
+| 21 | 88 | $14.83 | [Chart](https://www.tradingview.com/chart/?symbol=GBDC) | Golub Capital BDC, Inc. | GBDC |
 | 13 | 87 | $26.96 | [Chart](https://www.tradingview.com/chart/?symbol=SARO) | StandardAero, Inc. | SARO |
-| 15 | 87 | $50.89 | [Chart](https://www.tradingview.com/chart/?symbol=DT) | Dynatrace, Inc. | DT |
-| 16 | 87 | $44.34 | [Chart](https://www.tradingview.com/chart/?symbol=EPI) | WisdomTree India Earnings Fund ETF | EPI |
+| 17 | 87 | $15.00 | [Chart](https://www.tradingview.com/chart/?symbol=OSPN) | OneSpan Inc. Common Stock | OSPN |
 | 19 | 87 | $36.62 | [Chart](https://www.tradingview.com/chart/?symbol=APGE) | Apogee Therapeutics, Inc. Common Stock | APGE |
 | 21 | 87 | $11.01 | [Chart](https://www.tradingview.com/chart/?symbol=FPI) | Farmland Partners Inc. | FPI |
 | 23 | 87 | $10.29 | [Chart](https://www.tradingview.com/chart/?symbol=NMCO) | Nuveen Municipal Credit Opportunities Fund | NMCO |
 | 33 | 87 | $76.02 | [Chart](https://www.tradingview.com/chart/?symbol=NUVL) | Nuvalent, Inc. Class A Common Stock | NUVL |
-| 19 | 86 | $14.78 | [Chart](https://www.tradingview.com/chart/?symbol=GBDC) | Golub Capital BDC, Inc. | GBDC |
+| 14 | 86 | $10.09 | [Chart](https://www.tradingview.com/chart/?symbol=DVAX) | Dynavax Technologies Corporation | DVAX |
 | 20 | 86 | $56.88 | [Chart](https://www.tradingview.com/chart/?symbol=SLG) | SL Green Realty Corp. | SLG |
 | 24 | 86 | $39.33 | [Chart](https://www.tradingview.com/chart/?symbol=NMIH) | NMI Holdings Inc. Common Stock | NMIH |
 | 25 | 86 | $64.70 | [Chart](https://www.tradingview.com/chart/?symbol=ZROZ) | PIMCO 25+ Year Zero Coupon U.S. Treasury Index Exchange-Traded Fund | ZROZ |
+| 16 | 85 | $51.85 | [Chart](https://www.tradingview.com/chart/?symbol=INDA) | iShares MSCI India ETF | INDA |
 | 20 | 85 | $80.26 | [Chart](https://www.tradingview.com/chart/?symbol=IR) | Ingersoll Rand Inc. Common Stock | IR |
-| 18 | 84 | $81.90 | [Chart](https://www.tradingview.com/chart/?symbol=AGO) | Assured Guaranty, LTD | AGO |
+| 22 | 85 | $70.06 | [Chart](https://www.tradingview.com/chart/?symbol=PYPL) | PayPal Holdings, Inc. Common Stock | PYPL |
+| 26 | 85 | $25.73 | [Chart](https://www.tradingview.com/chart/?symbol=WY) | Weyerhaeuser Company | WY |
+| 19 | 84 | $79.37 | [Chart](https://www.tradingview.com/chart/?symbol=K) | Kellanova | K |
 | 24 | 84 | $136.03 | [Chart](https://www.tradingview.com/chart/?symbol=DVA) | DaVita Inc. | DVA |
 | 24 | 84 | $22.57 | [Chart](https://www.tradingview.com/chart/?symbol=CURB) | Curbline Properties Corp. | CURB |
 | 25 | 84 | $23.07 | [Chart](https://www.tradingview.com/chart/?symbol=BSJP) | Invesco BulletShares 2025 High Yield Corporate Bond ETF | BSJP |
-| 18 | 83 | $79.47 | [Chart](https://www.tradingview.com/chart/?symbol=K) | Kellanova | K |
+| 17 | 83 | $90.75 | [Chart](https://www.tradingview.com/chart/?symbol=FOUR) | Shift4 Payments, Inc. | FOUR |
+| 19 | 83 | $81.90 | [Chart](https://www.tradingview.com/chart/?symbol=AGO) | Assured Guaranty, LTD | AGO |
 | 21 | 83 | $29.11 | [Chart](https://www.tradingview.com/chart/?symbol=AMAL) | Amalgamated Financial Corp. Common Stock (DE) | AMAL |
-| 19 | 82 | $37.57 | [Chart](https://www.tradingview.com/chart/?symbol=VNO) | Vornado Realty Trust | VNO |
+| 26 | 83 | $25.09 | [Chart](https://www.tradingview.com/chart/?symbol=VRIG) | Invesco Variable Rate Investment Grade ETF | VRIG |
 | 19 | 82 | $455.08 | [Chart](https://www.tradingview.com/chart/?symbol=KNSL) | Kinsale Capital Group, Inc. | KNSL |
 | 25 | 82 | $41.90 | [Chart](https://www.tradingview.com/chart/?symbol=WHD) | Cactus, Inc. | WHD |
-| 27 | 82 | $25.09 | [Chart](https://www.tradingview.com/chart/?symbol=VRIG) | Invesco Variable Rate Investment Grade ETF | VRIG |
-| 22 | 81 | $70.06 | [Chart](https://www.tradingview.com/chart/?symbol=PYPL) | PayPal Holdings, Inc. Common Stock | PYPL |
+| 26 | 82 | $20.91 | [Chart](https://www.tradingview.com/chart/?symbol=BKLN) | Invesco Senior Loan ETF | BKLN |
+| 24 | 81 | $18.52 | [Chart](https://www.tradingview.com/chart/?symbol=OWL) | Blue Owl Capital Inc. | OWL |
+| 24 | 81 | $43.98 | [Chart](https://www.tradingview.com/chart/?symbol=KNX) | Knight-Swift Transportation Holdings Inc. Class A Common Stock | KNX |
+| 24 | 81 | $287.60 | [Chart](https://www.tradingview.com/chart/?symbol=AMGN) | Amgen Inc | AMGN |
 | 33 | 81 | $101.93 | [Chart](https://www.tradingview.com/chart/?symbol=BNTX) | BioNTech SE American Depositary Share | BNTX |
 | 23 | 80 | $21.67 | [Chart](https://www.tradingview.com/chart/?symbol=KMT) | Kennametal Inc. | KMT |
+| 24 | 80 | $129.35 | [Chart](https://www.tradingview.com/chart/?symbol=ABNB) | Airbnb, Inc. Class A Common Stock | ABNB |
+| 25 | 80 | $746.22 | [Chart](https://www.tradingview.com/chart/?symbol=ASML) | ASML Holding NV | ASML |
 | 27 | 80 | $11.42 | [Chart](https://www.tradingview.com/chart/?symbol=GSBD) | Goldman Sachs BDC, Inc. | GSBD |
-| 24 | 78 | $18.69 | [Chart](https://www.tradingview.com/chart/?symbol=OWL) | Blue Owl Capital Inc. | OWL |
+| 27 | 79 | $37.89 | [Chart](https://www.tradingview.com/chart/?symbol=VNO) | Vornado Realty Trust | VNO |
 | 25 | 78 | $26.47 | [Chart](https://www.tradingview.com/chart/?symbol=THR) | THERMON GROUP HOLDINGS, INC. | THR |
-| 27 | 76 | $20.90 | [Chart](https://www.tradingview.com/chart/?symbol=BKLN) | Invesco Senior Loan ETF | BKLN |
+| 30 | 78 | $16.63 | [Chart](https://www.tradingview.com/chart/?symbol=QYLD) | Global X Funds Global X NASDAQ-100 Covered Call ETF | QYLD |
 | 30 | 76 | $181.59 | [Chart](https://www.tradingview.com/chart/?symbol=DOV) | Dover Corporation | DOV |
-| 39 | 75 | $73.72 | [Chart](https://www.tradingview.com/chart/?symbol=GEHC) | GE HealthCare Technologies Inc. Common Stock | GEHC |
 | 28 | 74 | $19.67 | [Chart](https://www.tradingview.com/chart/?symbol=INGM) | Ingram Micro Holding Corporation | INGM |
 | 35 | 74 | $40.16 | [Chart](https://www.tradingview.com/chart/?symbol=WLY) | John Wiley & Sons, Inc. Class A | WLY |
-| 28 | 73 | $285.61 | [Chart](https://www.tradingview.com/chart/?symbol=AMGN) | Amgen Inc | AMGN |
 | 34 | 70 | $15.91 | [Chart](https://www.tradingview.com/chart/?symbol=NCDL) | Nuveen Churchill Direct Lending Corp | NCDL |
-| 35 | 69 | $48.96 | [Chart](https://www.tradingview.com/chart/?symbol=IP) | International Paper Co. | IP |
-| 32 | 68 | $130.46 | [Chart](https://www.tradingview.com/chart/?symbol=ABNB) | Airbnb, Inc. Class A Common Stock | ABNB |
+| 34 | 66 | $160.40 | [Chart](https://www.tradingview.com/chart/?symbol=AMAT) | Applied Materials Inc | AMAT |
+| 39 | 66 | $87.71 | [Chart](https://www.tradingview.com/chart/?symbol=SBUX) | Starbucks Corp | SBUX |
+| 39 | 66 | $72.18 | [Chart](https://www.tradingview.com/chart/?symbol=NEE) | NextEra Energy, Inc. | NEE |
 
 ## **Methodology**
 
